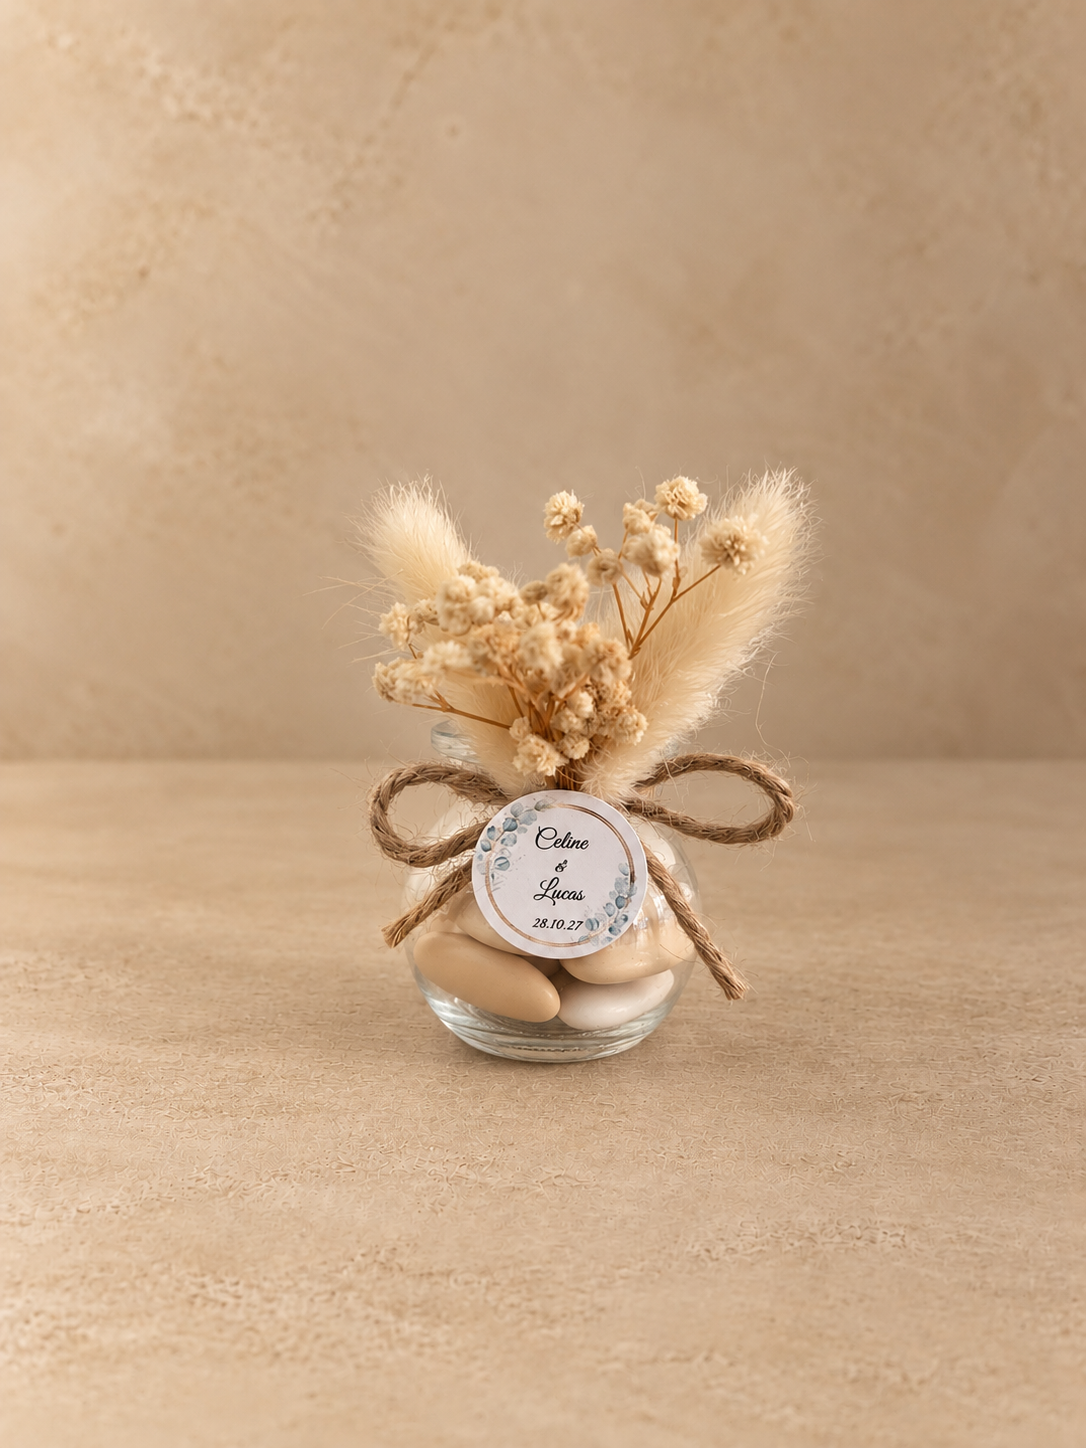
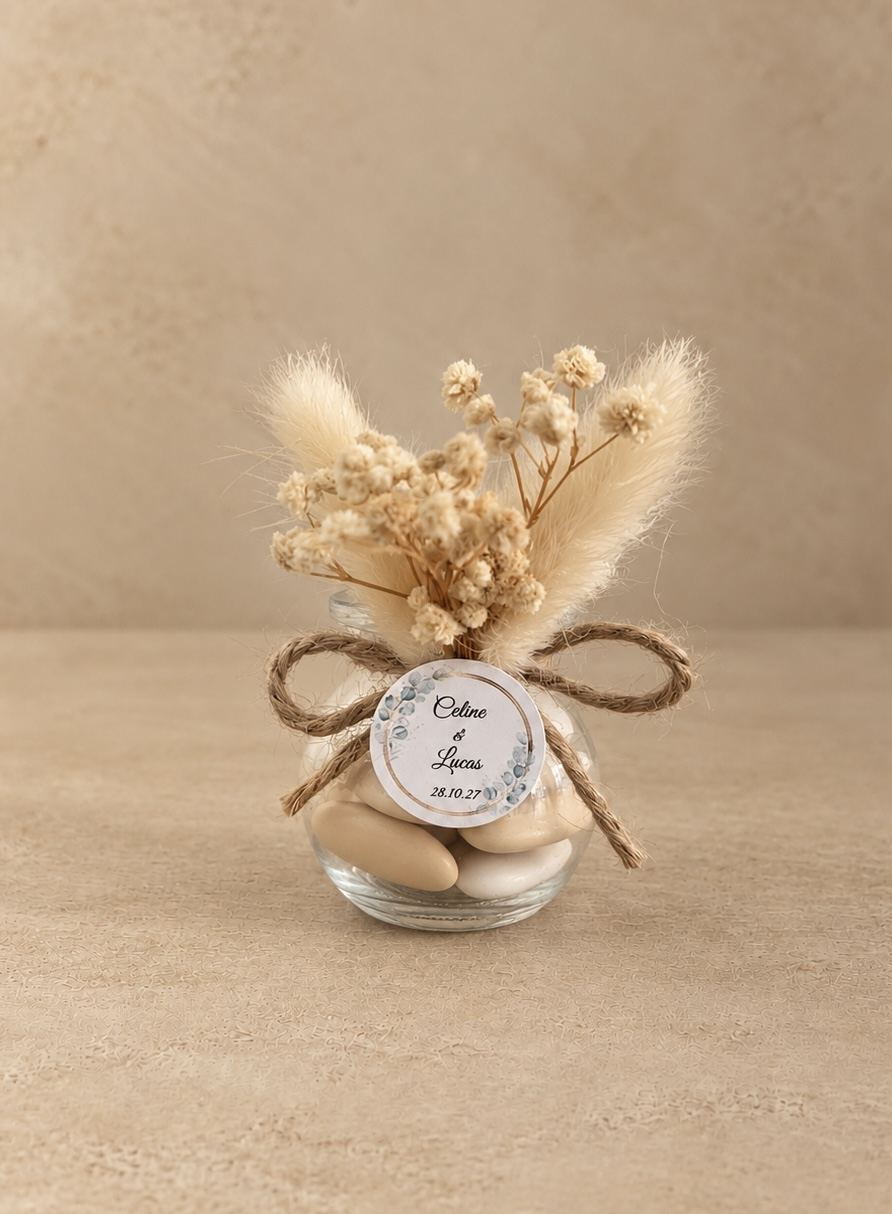
Mariage Champêtre : nouvelle photo produit
Claude-Session: https://claude.ai/code/session_01L3QqnkP4pGnrhy9YwWf3i8

diff --git a/produit-mariage-champetre.html b/produit-mariage-champetre.html
@@ -12,12 +12,12 @@
   <meta property="og:title" content="Dragées Mariage Champêtre · Dragée Paris">
   <meta property="og:description" content="Dragées Mariage Champêtre : pot en verre rond garni de dragées beige et blanches, bouquet de fleurs séchées et nœud de jute, personnalisé aux prénoms des mariés et à la date.">
   <meta property="og:url" content="https://drageeparis.fr/produit-mariage-champetre.html">
-  <meta property="og:image" content="https://drageeparis.fr/images/mariage/mariage-pot-champetre.png?v=20261029b">
+  <meta property="og:image" content="https://drageeparis.fr/images/mariage/mariage-pot-champetre.png?v=20261029c">
   <meta property="og:locale" content="fr_FR">
   <meta name="twitter:card" content="summary_large_image">
   <meta name="twitter:title" content="Dragées Mariage Champêtre · Dragée Paris">
   <meta name="twitter:description" content="Dragées Mariage Champêtre : pot en verre rond garni de dragées beige et blanches, bouquet de fleurs séchées et nœud de jute, personnalisé aux prénoms des mariés et à la date.">
-  <meta name="twitter:image" content="https://drageeparis.fr/images/mariage/mariage-pot-champetre.png?v=20261029b">
+  <meta name="twitter:image" content="https://drageeparis.fr/images/mariage/mariage-pot-champetre.png?v=20261029c">
   <link rel="canonical" href="https://drageeparis.fr/produit-mariage-champetre.html">
   <link rel="alternate" hreflang="fr" href="https://drageeparis.fr/produit-mariage-champetre.html">
   <link rel="alternate" hreflang="en" href="https://drageeparis.fr/en/produit-mariage-champetre.html">
@@ -163,8 +163,8 @@
     <section class="pdp">
       <div class="pdp__gallery">
         <picture>
-          <source type="image/webp" srcset="./images/mariage/mariage-pot-champetre-800w.webp?v=20261029b 800w, ./images/mariage/mariage-pot-champetre.webp?v=20261029b 1086w" sizes="(max-width: 1024px) 100vw, 50vw">
-          <img src="./images/mariage/mariage-pot-champetre.png?v=20261029b" alt="Dragées Mariage Champêtre, création assemblée à la main">
+          <source type="image/webp" srcset="./images/mariage/mariage-pot-champetre-800w.webp?v=20261029c 800w, ./images/mariage/mariage-pot-champetre.webp?v=20261029c 892w" sizes="(max-width: 1024px) 100vw, 50vw">
+          <img src="./images/mariage/mariage-pot-champetre.png?v=20261029c" alt="Dragées Mariage Champêtre, création assemblée à la main">
         </picture>
       </div>
       <div class="pdp__info">
@@ -277,7 +277,7 @@
   "@type": "Product",
   "name": "Dragées Mariage Champêtre",
   "description": "Dragées Mariage Champêtre : pot en verre rond garni de dragées beige et blanches, bouquet de fleurs séchées et nœud de jute, personnalisé aux prénoms des mariés et à la date.",
-  "image": "https://drageeparis.fr/images/mariage/mariage-pot-champetre.png?v=20261029b",
+  "image": "https://drageeparis.fr/images/mariage/mariage-pot-champetre.png?v=20261029c",
   "brand": {
     "@type": "Brand",
     "name": "Dragée Paris"

diff --git a/en/produit-mariage-champetre.html b/en/produit-mariage-champetre.html
@@ -12,12 +12,12 @@
   <meta property="og:title" content="Champêtre Wedding Dragées · Dragée Paris">
   <meta property="og:description" content="Champêtre Wedding Dragées: a round glass jar of beige and white dragées with a bouquet of dried flowers and a jute bow, personalised with the couple's names and date.">
   <meta property="og:url" content="https://drageeparis.fr/en/produit-mariage-champetre.html">
-  <meta property="og:image" content="https://drageeparis.fr/images/mariage/mariage-pot-champetre.png?v=20261029b">
+  <meta property="og:image" content="https://drageeparis.fr/images/mariage/mariage-pot-champetre.png?v=20261029c">
   <meta property="og:locale" content="en_GB">
   <meta name="twitter:card" content="summary_large_image">
   <meta name="twitter:title" content="Champêtre Wedding Dragées · Dragée Paris">
   <meta name="twitter:description" content="Champêtre Wedding Dragées: a round glass jar of beige and white dragées with a bouquet of dried flowers and a jute bow, personalised with the couple's names and date.">
-  <meta name="twitter:image" content="https://drageeparis.fr/images/mariage/mariage-pot-champetre.png?v=20261029b">
+  <meta name="twitter:image" content="https://drageeparis.fr/images/mariage/mariage-pot-champetre.png?v=20261029c">
   <link rel="canonical" href="https://drageeparis.fr/en/produit-mariage-champetre.html">
   <link rel="alternate" hreflang="fr" href="https://drageeparis.fr/produit-mariage-champetre.html">
   <link rel="alternate" hreflang="en" href="https://drageeparis.fr/en/produit-mariage-champetre.html">
@@ -163,8 +163,8 @@
     <section class="pdp">
       <div class="pdp__gallery">
         <picture>
-          <source type="image/webp" srcset="../images/mariage/mariage-pot-champetre-800w.webp?v=20261029b 800w, ../images/mariage/mariage-pot-champetre.webp?v=20261029b 1086w" sizes="(max-width: 1024px) 100vw, 50vw">
-          <img src="../images/mariage/mariage-pot-champetre.png?v=20261029b" alt="Champêtre Wedding Dragées, hand-assembled creation">
+          <source type="image/webp" srcset="../images/mariage/mariage-pot-champetre-800w.webp?v=20261029c 800w, ../images/mariage/mariage-pot-champetre.webp?v=20261029c 892w" sizes="(max-width: 1024px) 100vw, 50vw">
+          <img src="../images/mariage/mariage-pot-champetre.png?v=20261029c" alt="Champêtre Wedding Dragées, hand-assembled creation">
         </picture>
       </div>
       <div class="pdp__info">
@@ -277,7 +277,7 @@
   "@type": "Product",
   "name": "Champêtre Wedding Dragées",
   "description": "Champêtre Wedding Dragées: a round glass jar of beige and white dragées with a bouquet of dried flowers and a jute bow, personalised with the couple's names and date.",
-  "image": "https://drageeparis.fr/images/mariage/mariage-pot-champetre.png?v=20261029b",
+  "image": "https://drageeparis.fr/images/mariage/mariage-pot-champetre.png?v=20261029c",
   "brand": {
     "@type": "Brand",
     "name": "Dragée Paris"

diff --git a/creations.html b/creations.html
@@ -371,8 +371,8 @@
             <div class="product-card__media">
               <a href="produit-mariage-champetre.html">
               <picture>
-          <source type="image/webp" srcset="./images/mariage/mariage-pot-champetre-800w.webp?v=20261029b 800w, ./images/mariage/mariage-pot-champetre.webp?v=20261029b 1086w" sizes="(max-width: 768px) 100vw, (max-width: 1200px) 50vw, 400px">
-          <img src="./images/mariage/mariage-pot-champetre.png?v=20261029b" alt="Dragées de mariage Champêtre : pot en verre rond de dragées beige et blanches, fleurs séchées, nœud de jute et étiquette aux prénoms des mariés" loading="lazy" width="400" height="400">
+          <source type="image/webp" srcset="./images/mariage/mariage-pot-champetre-800w.webp?v=20261029c 800w, ./images/mariage/mariage-pot-champetre.webp?v=20261029c 892w" sizes="(max-width: 768px) 100vw, (max-width: 1200px) 50vw, 400px">
+          <img src="./images/mariage/mariage-pot-champetre.png?v=20261029c" alt="Dragées de mariage Champêtre : pot en verre rond de dragées beige et blanches, fleurs séchées, nœud de jute et étiquette aux prénoms des mariés" loading="lazy" width="400" height="400">
         </picture>
               </a>
             </div>

diff --git a/dragees-mariage.html b/dragees-mariage.html
@@ -291,8 +291,8 @@
             <div class="product-card__media">
               <a href="produit-mariage-champetre.html">
               <picture>
-          <source type="image/webp" srcset="./images/mariage/mariage-pot-champetre-800w.webp?v=20261029b 800w, ./images/mariage/mariage-pot-champetre.webp?v=20261029b 1086w" sizes="(max-width: 768px) 100vw, (max-width: 1200px) 50vw, 400px">
-          <img src="./images/mariage/mariage-pot-champetre.png?v=20261029b" alt="Dragées de mariage Champêtre : pot en verre rond de dragées beige et blanches, fleurs séchées, nœud de jute et étiquette aux prénoms des mariés" loading="lazy" width="400" height="400">
+          <source type="image/webp" srcset="./images/mariage/mariage-pot-champetre-800w.webp?v=20261029c 800w, ./images/mariage/mariage-pot-champetre.webp?v=20261029c 892w" sizes="(max-width: 768px) 100vw, (max-width: 1200px) 50vw, 400px">
+          <img src="./images/mariage/mariage-pot-champetre.png?v=20261029c" alt="Dragées de mariage Champêtre : pot en verre rond de dragées beige et blanches, fleurs séchées, nœud de jute et étiquette aux prénoms des mariés" loading="lazy" width="400" height="400">
         </picture>
               </a>
             </div>

diff --git a/en/creations.html b/en/creations.html
@@ -371,8 +371,8 @@
             <div class="product-card__media">
               <a href="produit-mariage-champetre.html">
               <picture>
-          <source type="image/webp" srcset="../images/mariage/mariage-pot-champetre-800w.webp?v=20261029b 800w, ../images/mariage/mariage-pot-champetre.webp?v=20261029b 1086w" sizes="(max-width: 768px) 100vw, (max-width: 1200px) 50vw, 400px">
-          <img src="../images/mariage/mariage-pot-champetre.png?v=20261029b" alt="Champêtre Wedding Dragées: a round glass jar of beige and white dragées with dried flowers, a jute bow and a label with the couple's names" loading="lazy" width="400" height="400">
+          <source type="image/webp" srcset="../images/mariage/mariage-pot-champetre-800w.webp?v=20261029c 800w, ../images/mariage/mariage-pot-champetre.webp?v=20261029c 892w" sizes="(max-width: 768px) 100vw, (max-width: 1200px) 50vw, 400px">
+          <img src="../images/mariage/mariage-pot-champetre.png?v=20261029c" alt="Champêtre Wedding Dragées: a round glass jar of beige and white dragées with dried flowers, a jute bow and a label with the couple's names" loading="lazy" width="400" height="400">
         </picture>
               </a>
             </div>

diff --git a/en/dragees-mariage.html b/en/dragees-mariage.html
@@ -292,8 +292,8 @@
             <div class="product-card__media">
               <a href="produit-mariage-champetre.html">
               <picture>
-          <source type="image/webp" srcset="../images/mariage/mariage-pot-champetre-800w.webp?v=20261029b 800w, ../images/mariage/mariage-pot-champetre.webp?v=20261029b 1086w" sizes="(max-width: 768px) 100vw, (max-width: 1200px) 50vw, 400px">
-          <img src="../images/mariage/mariage-pot-champetre.png?v=20261029b" alt="Champêtre Wedding Dragées: a round glass jar of beige and white dragées with dried flowers, a jute bow and a label with the couple's names" loading="lazy" width="400" height="400">
+          <source type="image/webp" srcset="../images/mariage/mariage-pot-champetre-800w.webp?v=20261029c 800w, ../images/mariage/mariage-pot-champetre.webp?v=20261029c 892w" sizes="(max-width: 768px) 100vw, (max-width: 1200px) 50vw, 400px">
+          <img src="../images/mariage/mariage-pot-champetre.png?v=20261029c" alt="Champêtre Wedding Dragées: a round glass jar of beige and white dragées with dried flowers, a jute bow and a label with the couple's names" loading="lazy" width="400" height="400">
         </picture>
               </a>
             </div>

diff --git a/en/index.html b/en/index.html
@@ -281,8 +281,8 @@
         <a href="produit-mariage-champetre.html" class="prod-card">
           <div class="prod-card__image">
             <picture>
-          <source type="image/webp" srcset="../images/mariage/mariage-pot-champetre-800w.webp?v=20261029b 800w, ../images/mariage/mariage-pot-champetre.webp?v=20261029b 1086w" sizes="(max-width: 768px) 100vw, (max-width: 1200px) 50vw, 400px">
-          <img src="../images/mariage/mariage-pot-champetre.png?v=20261029b" alt="Champêtre Wedding Dragées" loading="lazy">
+          <source type="image/webp" srcset="../images/mariage/mariage-pot-champetre-800w.webp?v=20261029c 800w, ../images/mariage/mariage-pot-champetre.webp?v=20261029c 892w" sizes="(max-width: 768px) 100vw, (max-width: 1200px) 50vw, 400px">
+          <img src="../images/mariage/mariage-pot-champetre.png?v=20261029c" alt="Champêtre Wedding Dragées" loading="lazy">
         </picture>
           </div>
           <div class="prod-card__info">

diff --git a/en/produit-mariage-alliance.html b/en/produit-mariage-alliance.html
@@ -211,8 +211,8 @@
         <a href="produit-mariage-champetre.html" class="prod-card">
           <div class="prod-card__image">
             <picture>
-          <source type="image/webp" srcset="../images/mariage/mariage-pot-champetre-800w.webp?v=20261029b 800w, ../images/mariage/mariage-pot-champetre.webp?v=20261029b 1086w" sizes="(max-width: 768px) 100vw, (max-width: 1200px) 50vw, 400px">
-          <img src="../images/mariage/mariage-pot-champetre.png?v=20261029b" alt="Champêtre Wedding Dragées" loading="lazy">
+          <source type="image/webp" srcset="../images/mariage/mariage-pot-champetre-800w.webp?v=20261029c 800w, ../images/mariage/mariage-pot-champetre.webp?v=20261029c 892w" sizes="(max-width: 768px) 100vw, (max-width: 1200px) 50vw, 400px">
+          <img src="../images/mariage/mariage-pot-champetre.png?v=20261029c" alt="Champêtre Wedding Dragées" loading="lazy">
         </picture>
           </div>
           <div class="prod-card__info">

diff --git a/en/produit-mariage-bouquet-printemps.html b/en/produit-mariage-bouquet-printemps.html
@@ -226,8 +226,8 @@
         <a href="produit-mariage-champetre.html" class="prod-card">
           <div class="prod-card__image">
             <picture>
-          <source type="image/webp" srcset="../images/mariage/mariage-pot-champetre-800w.webp?v=20261029b 800w, ../images/mariage/mariage-pot-champetre.webp?v=20261029b 1086w" sizes="(max-width: 768px) 100vw, (max-width: 1200px) 50vw, 400px">
-          <img src="../images/mariage/mariage-pot-champetre.png?v=20261029b" alt="Champêtre Wedding Dragées" loading="lazy">
+          <source type="image/webp" srcset="../images/mariage/mariage-pot-champetre-800w.webp?v=20261029c 800w, ../images/mariage/mariage-pot-champetre.webp?v=20261029c 892w" sizes="(max-width: 768px) 100vw, (max-width: 1200px) 50vw, 400px">
+          <img src="../images/mariage/mariage-pot-champetre.png?v=20261029c" alt="Champêtre Wedding Dragées" loading="lazy">
         </picture>
           </div>
           <div class="prod-card__info">

diff --git a/en/produit-mariage-terracotta.html b/en/produit-mariage-terracotta.html
@@ -210,8 +210,8 @@
         <a href="produit-mariage-champetre.html" class="prod-card">
           <div class="prod-card__image">
             <picture>
-          <source type="image/webp" srcset="../images/mariage/mariage-pot-champetre-800w.webp?v=20261029b 800w, ../images/mariage/mariage-pot-champetre.webp?v=20261029b 1086w" sizes="(max-width: 768px) 100vw, (max-width: 1200px) 50vw, 400px">
-          <img src="../images/mariage/mariage-pot-champetre.png?v=20261029b" alt="Champêtre Wedding Dragées" loading="lazy">
+          <source type="image/webp" srcset="../images/mariage/mariage-pot-champetre-800w.webp?v=20261029c 800w, ../images/mariage/mariage-pot-champetre.webp?v=20261029c 892w" sizes="(max-width: 768px) 100vw, (max-width: 1200px) 50vw, 400px">
+          <img src="../images/mariage/mariage-pot-champetre.png?v=20261029c" alt="Champêtre Wedding Dragées" loading="lazy">
         </picture>
           </div>
           <div class="prod-card__info">

diff --git a/produit-mariage-alliance.html b/produit-mariage-alliance.html
@@ -211,8 +211,8 @@
         <a href="produit-mariage-champetre.html" class="prod-card">
           <div class="prod-card__image">
             <picture>
-          <source type="image/webp" srcset="./images/mariage/mariage-pot-champetre-800w.webp?v=20261029b 800w, ./images/mariage/mariage-pot-champetre.webp?v=20261029b 1086w" sizes="(max-width: 768px) 100vw, (max-width: 1200px) 50vw, 400px">
-          <img src="./images/mariage/mariage-pot-champetre.png?v=20261029b" alt="Dragées Mariage Champêtre" loading="lazy">
+          <source type="image/webp" srcset="./images/mariage/mariage-pot-champetre-800w.webp?v=20261029c 800w, ./images/mariage/mariage-pot-champetre.webp?v=20261029c 892w" sizes="(max-width: 768px) 100vw, (max-width: 1200px) 50vw, 400px">
+          <img src="./images/mariage/mariage-pot-champetre.png?v=20261029c" alt="Dragées Mariage Champêtre" loading="lazy">
         </picture>
           </div>
           <div class="prod-card__info">

diff --git a/produit-mariage-bouquet-printemps.html b/produit-mariage-bouquet-printemps.html
@@ -226,8 +226,8 @@
         <a href="produit-mariage-champetre.html" class="prod-card">
           <div class="prod-card__image">
             <picture>
-          <source type="image/webp" srcset="./images/mariage/mariage-pot-champetre-800w.webp?v=20261029b 800w, ./images/mariage/mariage-pot-champetre.webp?v=20261029b 1086w" sizes="(max-width: 768px) 100vw, (max-width: 1200px) 50vw, 400px">
-          <img src="./images/mariage/mariage-pot-champetre.png?v=20261029b" alt="Dragées Mariage Champêtre" loading="lazy">
+          <source type="image/webp" srcset="./images/mariage/mariage-pot-champetre-800w.webp?v=20261029c 800w, ./images/mariage/mariage-pot-champetre.webp?v=20261029c 892w" sizes="(max-width: 768px) 100vw, (max-width: 1200px) 50vw, 400px">
+          <img src="./images/mariage/mariage-pot-champetre.png?v=20261029c" alt="Dragées Mariage Champêtre" loading="lazy">
         </picture>
           </div>
           <div class="prod-card__info">
